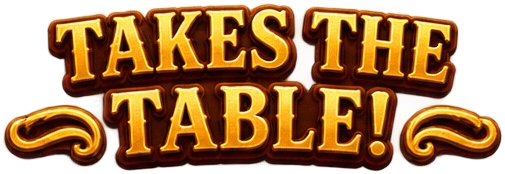
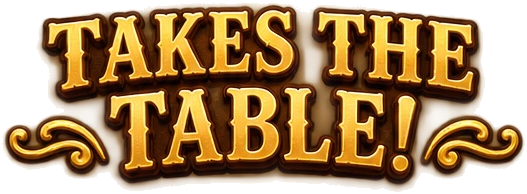
Refresh Winner Takes All overlay from the latest kit sprite sheet.
Slice the new sheet into plaques (amount plate, rays, star divider, updated
banners/buttons/stats), clear baked demo values for dynamic overlay, and
rewire the win screen around player name + green haul plate.

diff --git a/Web/CinematicPoker.Web/wwwroot/css/app.css b/Web/CinematicPoker.Web/wwwroot/css/app.css
@@ -3113,44 +3113,57 @@ button.act.plaque .plaque-amt {
     margin: 0 auto;
 }
 
-.win-nameplate {
-    position: relative;
-    width: min(92%, 360px);
-    margin: 0 auto;
-}
-
-.win-nameplate-art {
-    display: block;
-    width: 100%;
-    height: auto;
-}
-
-.win-nameplate-text {
-    position: absolute;
-    inset: 0;
-    display: flex;
-    align-items: center;
-    justify-content: center;
-    padding: 0 10%;
+.win-player-name {
     font-family: 'Rye', Georgia, serif;
-    font-size: clamp(20px, 4.4vw, 30px);
-    font-weight: 400;
+    font-size: clamp(18px, 4vw, 26px);
     letter-spacing: 2px;
     color: #f4e6c0;
     text-shadow:
-        0 2px 0 rgba(0, 0, 0, 0.65),
+        0 2px 0 rgba(0, 0, 0, 0.75),
         0 0 14px rgba(230, 195, 106, 0.35);
+    max-width: 94%;
     white-space: nowrap;
     overflow: hidden;
     text-overflow: ellipsis;
 }
 
-.win-title-flourish {
-    display: block;
-    width: min(90%, 340px);
+.win-title-wrap {
+    position: relative;
+    width: min(92%, 360px);
+    margin: -2px auto 0;
+    display: flex;
+    align-items: center;
+    justify-content: center;
+}
+
+.win-rays {
+    position: absolute;
+    left: 50%;
+    bottom: 8%;
+    width: 92%;
     height: auto;
-    margin: -6px auto 0;
+    transform: translateX(-50%);
+    opacity: 0.55;
+    pointer-events: none;
+    mix-blend-mode: screen;
+    z-index: 0;
+}
+
+.win-title-flourish {
+    position: relative;
+    z-index: 1;
+    display: block;
+    width: 100%;
+    height: auto;
     filter: drop-shadow(0 4px 10px rgba(0, 0, 0, 0.45));
+}
+
+.win-star-divider {
+    display: block;
+    width: min(64%, 240px);
+    height: auto;
+    margin: 0 auto;
+    opacity: 0.95;
 }
 
 /* The haul counts up from $0 in the code-behind; the glow pulse reuses
@@ -3159,7 +3172,7 @@ button.act.plaque .plaque-amt {
     display: flex;
     flex-direction: column;
     align-items: center;
-    gap: 2px;
+    gap: 4px;
     width: 100%;
 }
 
@@ -3169,33 +3182,52 @@ button.act.plaque .plaque-amt {
     height: auto;
 }
 
+.win-amount-plate {
+    position: relative;
+    width: min(88%, 340px);
+    margin: 0 auto;
+}
+
+.win-amount-plate-art {
+    display: block;
+    width: 100%;
+    height: auto;
+}
+
 .win-amount {
-    font-size: clamp(30px, 7vw, 46px);
+    position: absolute;
+    inset: 0;
+    display: flex;
+    align-items: center;
+    justify-content: center;
+    font-size: clamp(26px, 6.5vw, 40px);
     font-weight: 800;
+    letter-spacing: 1px;
     color: #ffe9a8;
     text-shadow:
-        0 0 30px rgba(255, 220, 120, 0.55),
-        0 2px 0 rgba(60, 40, 10, 0.55);
+        0 0 22px rgba(255, 220, 120, 0.55),
+        0 2px 0 rgba(20, 40, 15, 0.85);
     animation: victory-amount 1.8s ease-in-out infinite;
 }
 
 .win-stats {
     display: flex;
     justify-content: center;
-    align-items: flex-end;
+    align-items: stretch;
     gap: 4px;
     width: 100%;
     margin-top: 2px;
 }
 
 .win-stat {
-    display: flex;
-    flex-direction: column;
-    align-items: center;
-    gap: 2px;
+    position: relative;
     flex: 1 1 0;
     max-width: 118px;
     min-width: 0;
+    display: flex;
+    flex-direction: column;
+    align-items: center;
+    justify-content: center;
 }
 
 .win-stat-plaque {
@@ -3213,13 +3245,32 @@ button.act.plaque .plaque-amt {
     opacity: 0.85;
 }
 
+.win-stat-num,
+.win-stat-label {
+    position: absolute;
+    left: 8%;
+    right: 8%;
+    text-align: center;
+    pointer-events: none;
+    line-height: 1.05;
+}
+
 .win-stat-num {
-    font-size: clamp(14px, 3vw, 18px);
+    top: 18%;
+    font-size: clamp(13px, 2.8vw, 17px);
     font-weight: 800;
     letter-spacing: 0.5px;
-    color: #ffe9a8;
+    color: #f3e6c8;
     text-shadow: 0 1px 3px rgba(0, 0, 0, 0.75);
-    line-height: 1.1;
+}
+
+.win-stat-label {
+    top: 52%;
+    font-size: clamp(7px, 1.6vw, 9px);
+    font-weight: 700;
+    letter-spacing: 0.6px;
+    color: #e8dcc0;
+    text-shadow: 0 1px 2px rgba(0, 0, 0, 0.7);
 }
 
 @keyframes win-card-deal {
@@ -3300,13 +3351,14 @@ button.act.plaque .plaque-amt {
     .overlay-box.table-win > .win-panel-inner { gap: 4px; }
     .win-card-fan { width: min(48%, 160px); }
     .win-eyebrow { width: min(90%, 300px); }
-    .win-nameplate { width: min(86%, 280px); }
-    .win-nameplate-text { font-size: 16px; letter-spacing: 1px; }
-    .win-title-flourish { width: min(84%, 260px); }
+    .win-player-name { font-size: 14px; letter-spacing: 1px; }
+    .win-title-wrap { width: min(84%, 260px); }
     .win-haul-label { width: min(64%, 220px); }
-    .win-amount { font-size: 24px; }
-    .win-stat { max-width: 100px; gap: 2px; }
+    .win-amount-plate { width: min(80%, 260px); }
+    .win-amount { font-size: 20px; }
+    .win-stat { max-width: 100px; }
     .win-stat-num { font-size: 12px; }
+    .win-stat-label { font-size: 7px; }
     .overlay-box.table-win .win-btn.act { width: min(100%, 220px); }
     .overlay-box.table-win .win-btn-stats { width: min(100%, 190px); }
 }
@@ -4034,8 +4086,9 @@ button.act.plaque .plaque-amt {
         padding: 10% 7% 7% 7%;
     }
     .win-card-fan { width: min(50%, 190px); }
-    .win-nameplate-text { font-size: 22px; }
-    .win-amount { font-size: 36px; }
+    .win-player-name { font-size: 22px; }
+    .win-amount-plate { width: min(86%, 320px); }
+    .win-amount { font-size: 32px; }
     .win-stat { max-width: 110px; }
     .win-stat-num { font-size: 14px; }
 }
